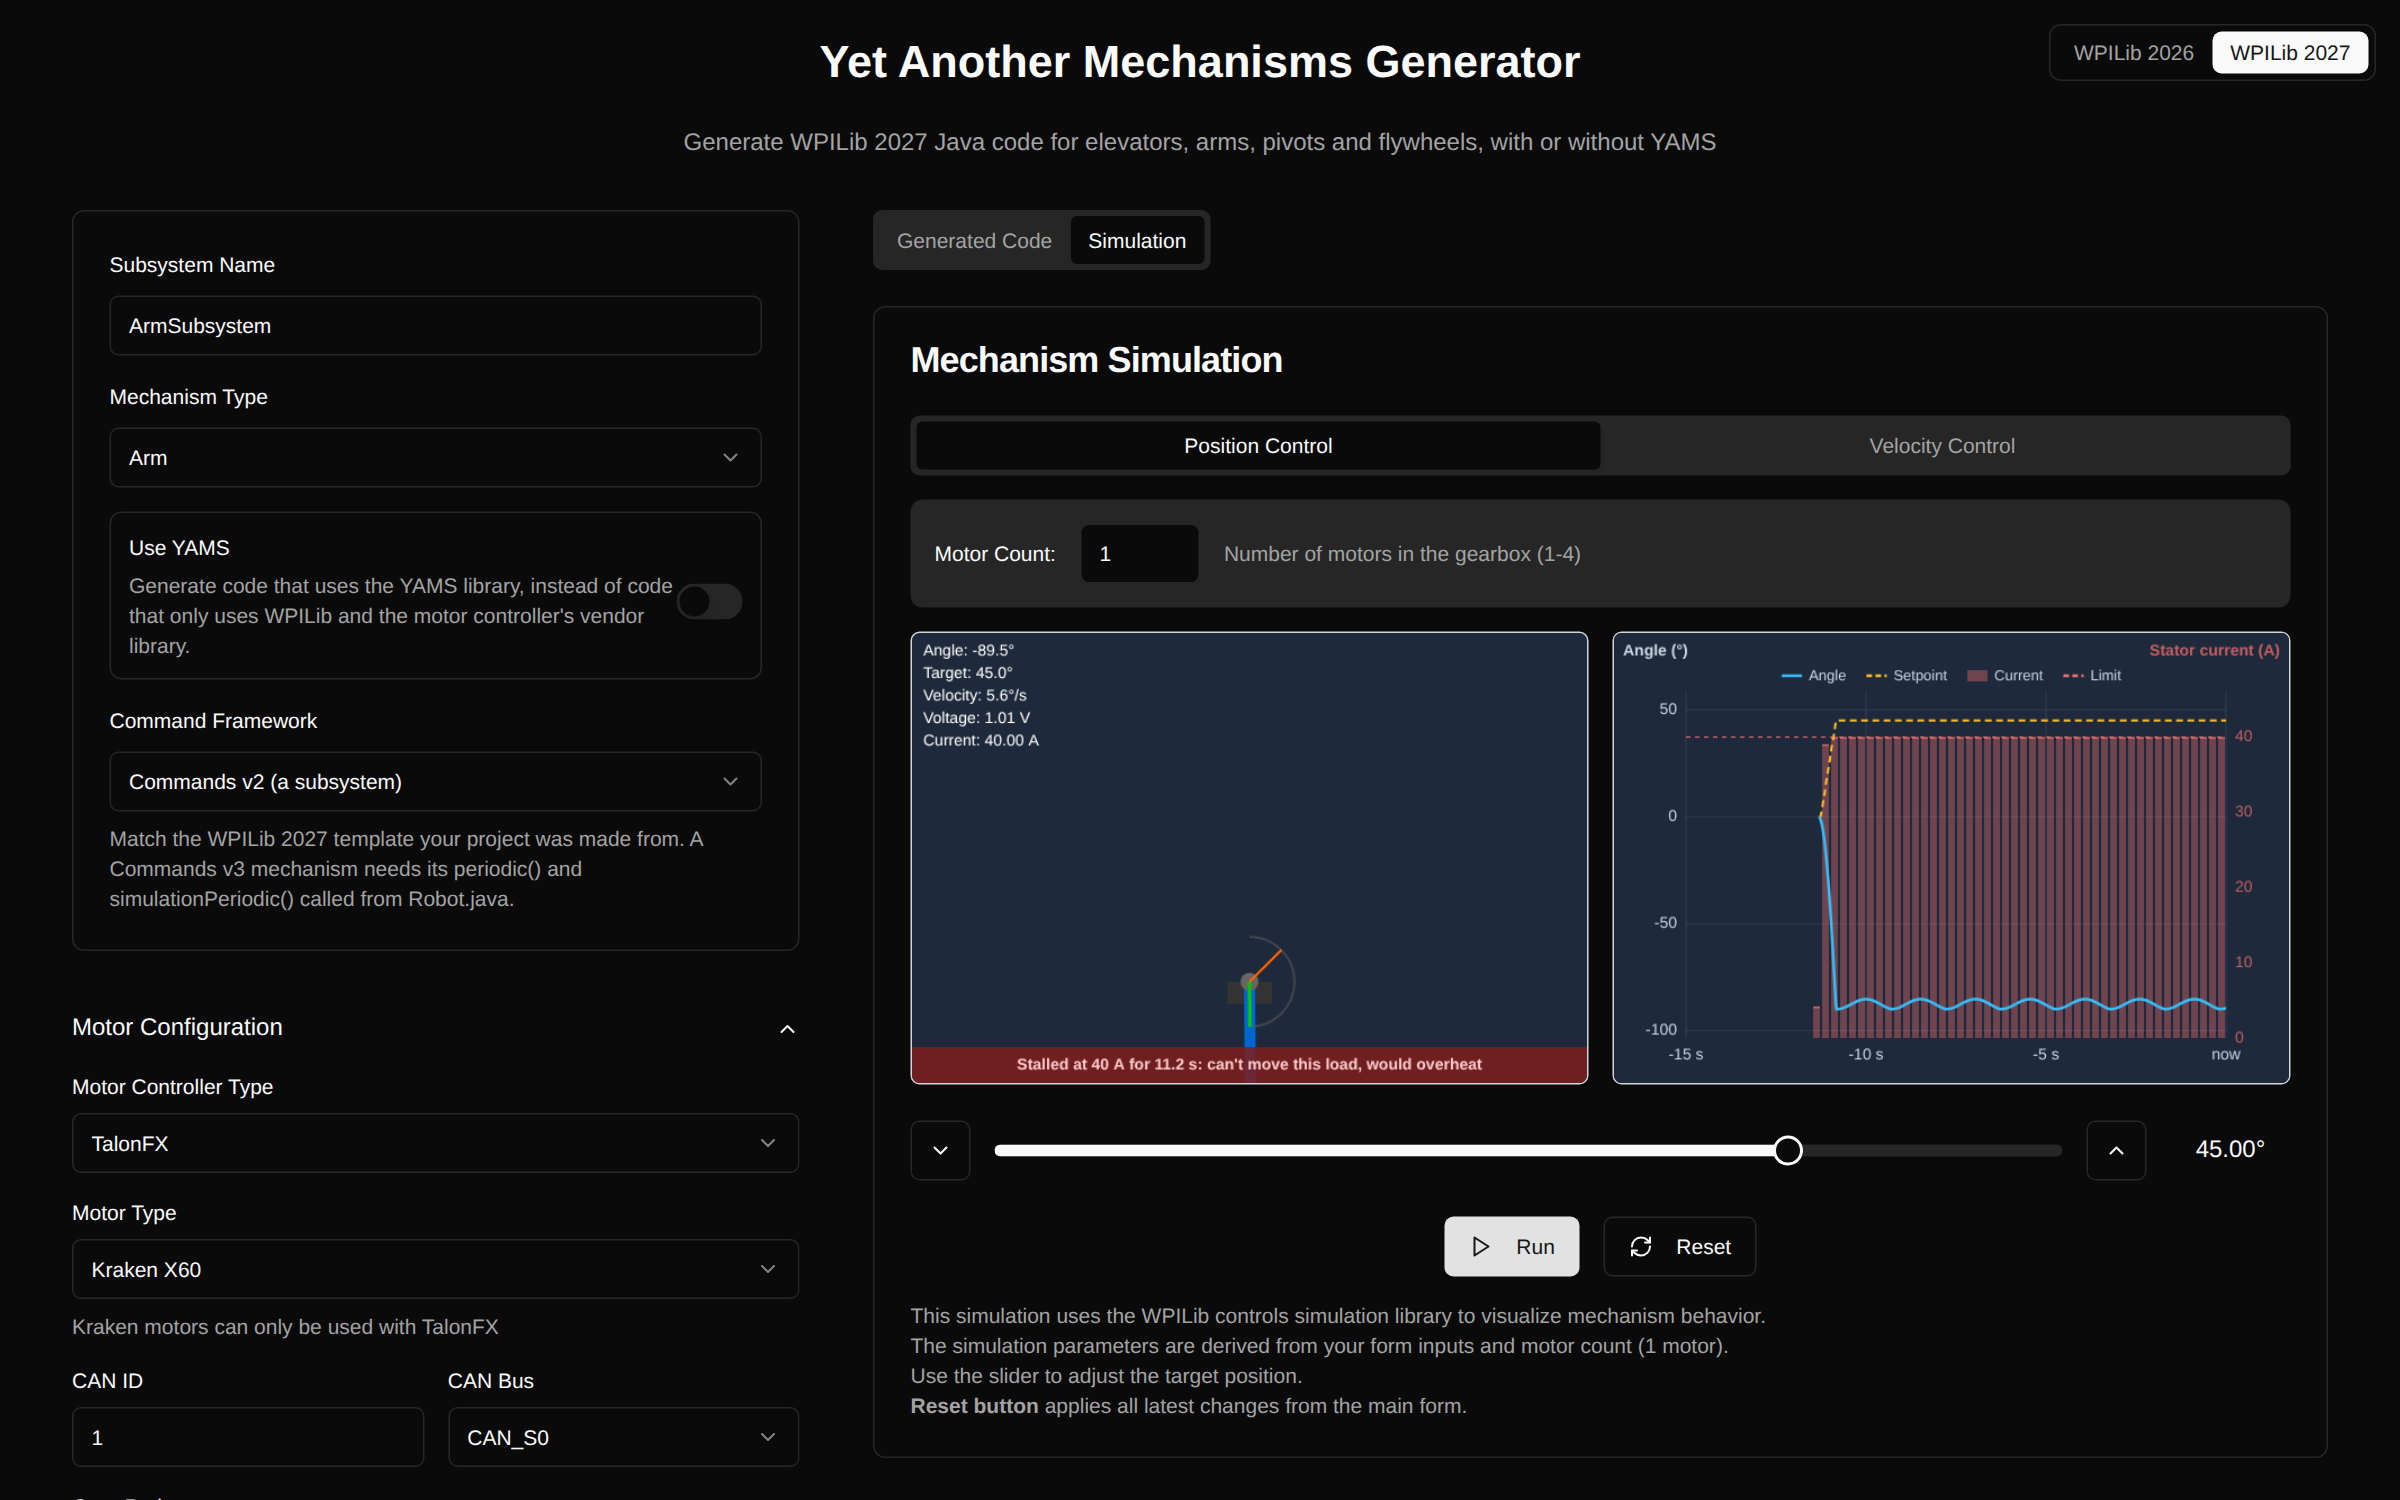
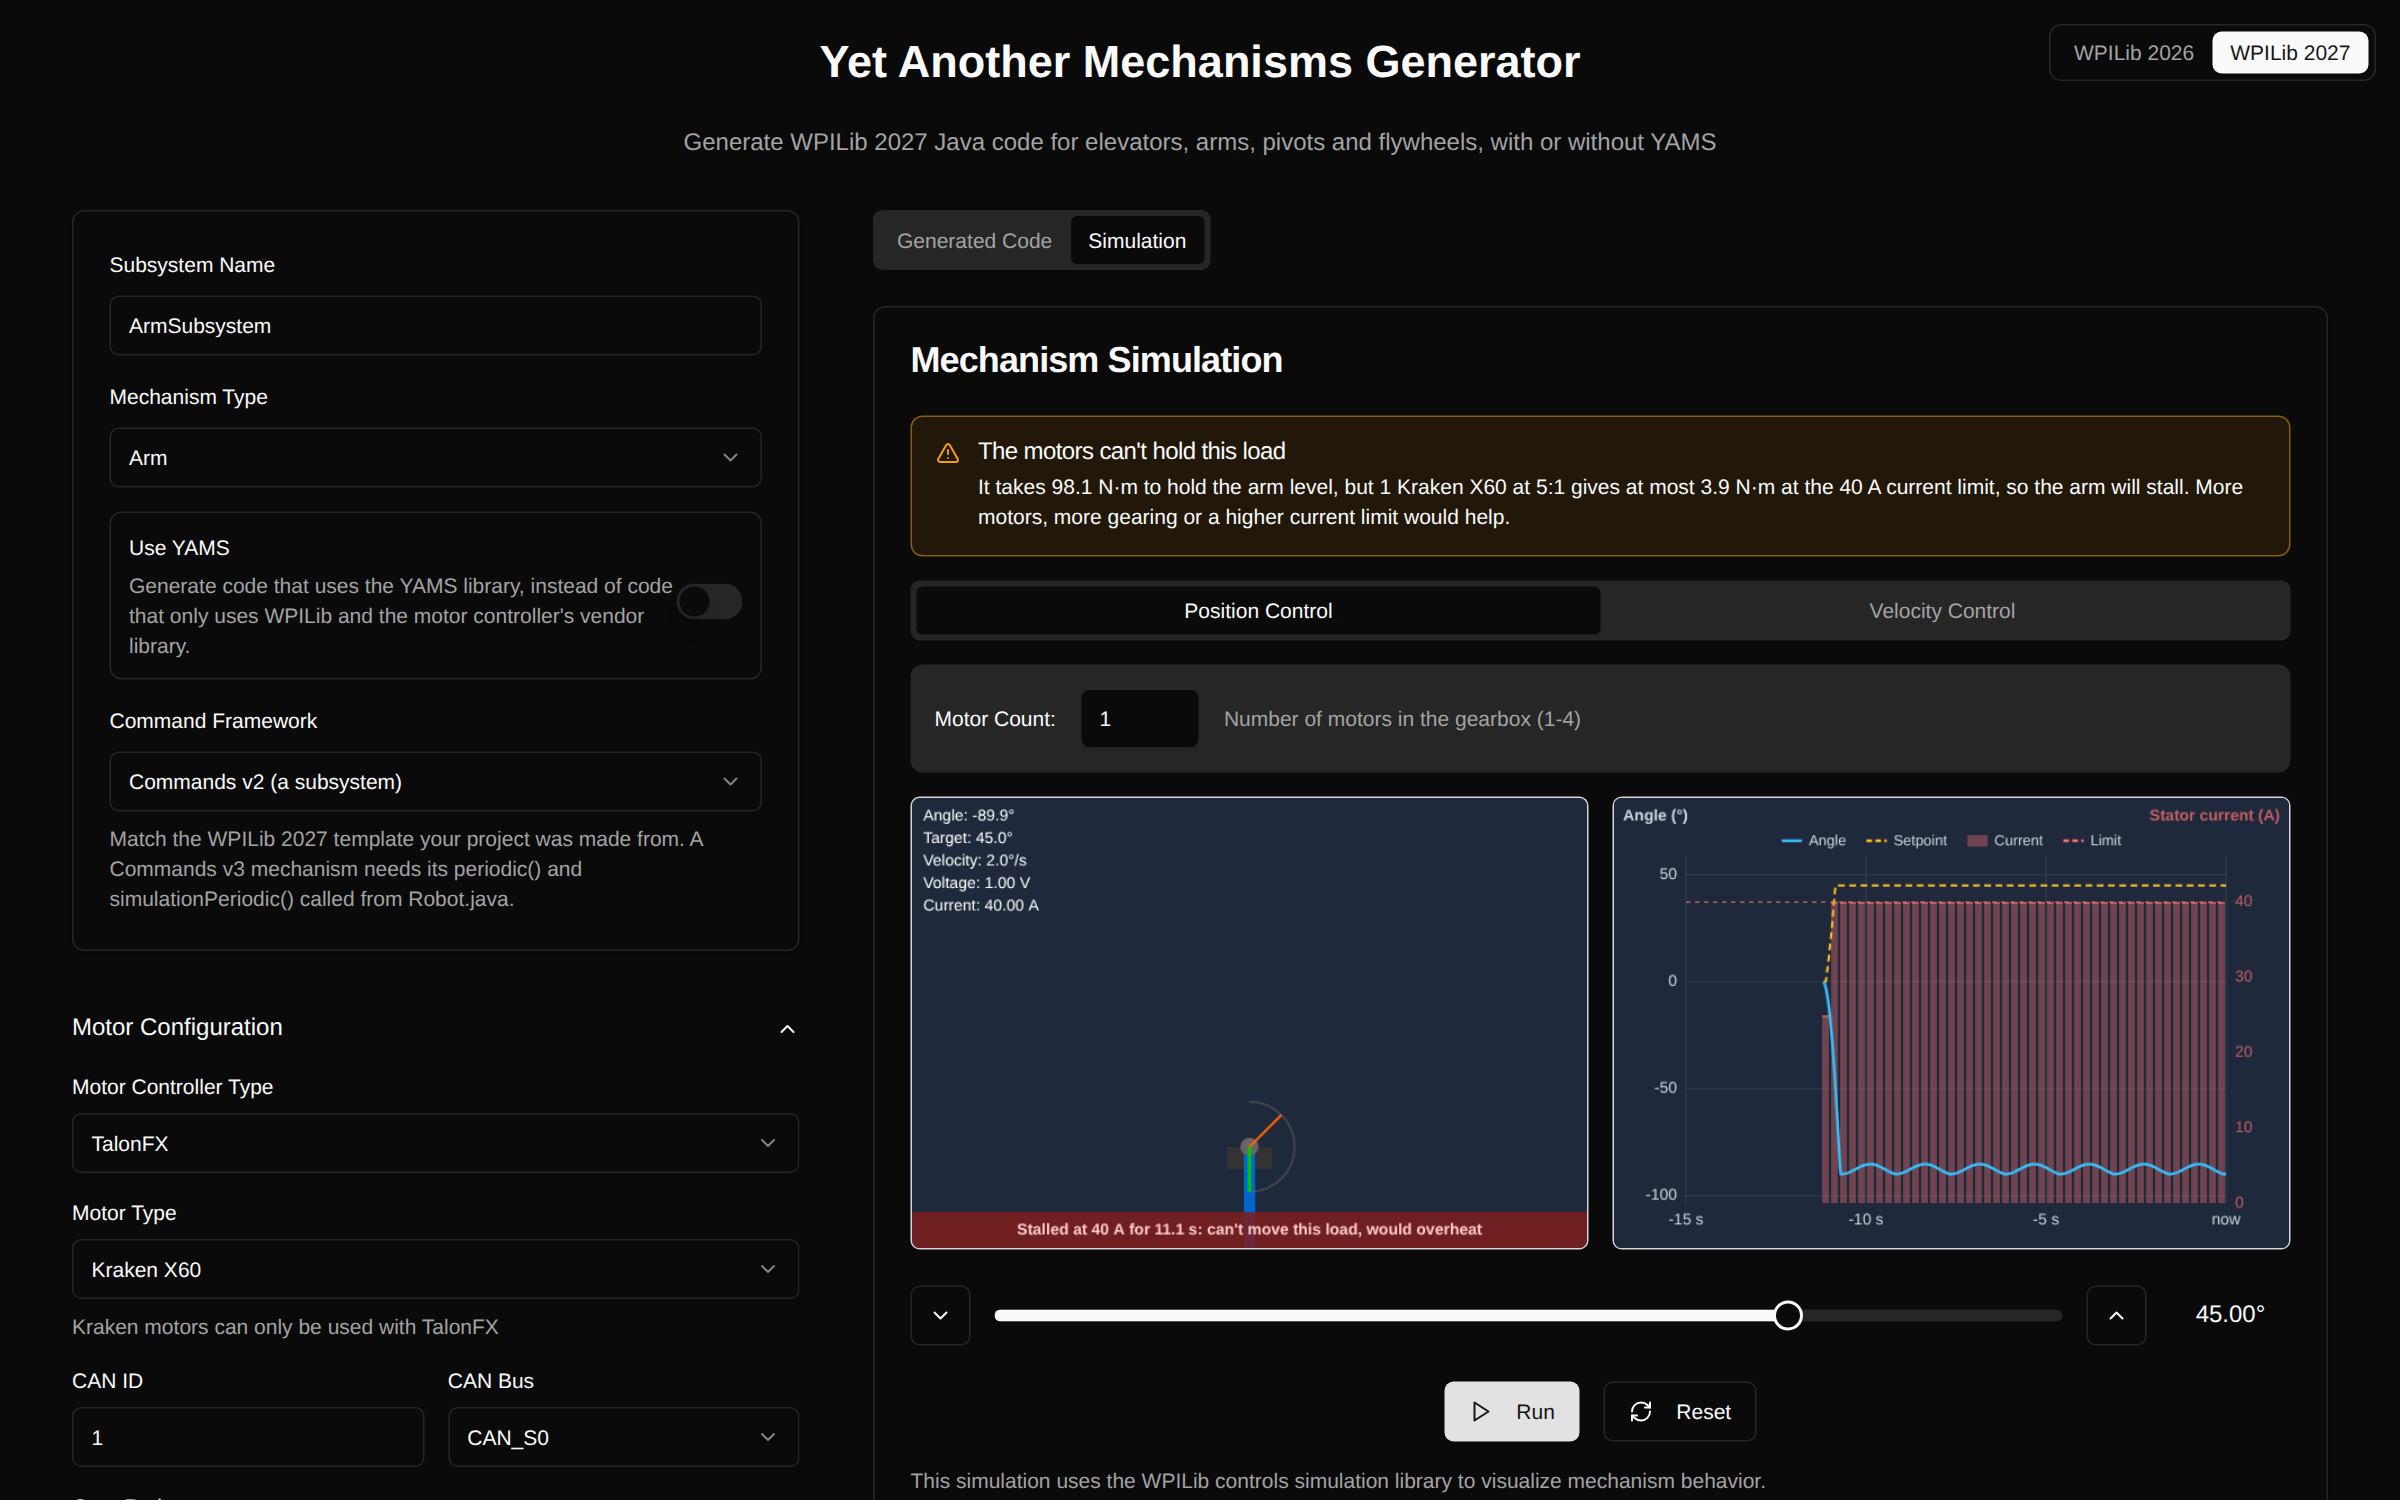
Show YAMG's warning that the motors can't hold the load in the YAMG 2027 post

Changed region(s): [[0.375, 0.276, 0.9688, 1.0]]

diff --git a/src/content/blog/yamg-2027.md b/src/content/blog/yamg-2027.md
@@ -208,9 +208,11 @@ Next to the mechanism, a graph shows the last 15 seconds: the angle (or height, 
 
 ![YAMG simulating an arm following its motion profile, next to a graph of its angle, setpoint and stator current over the last 15 seconds](../../assets/blog/yamg-2027/09-profile-and-chart.png)
 
-If the motor can't move the load, the simulation won't pretend it can. Here's the same Kraken X60 at 5:1 on a 1 m, 20 kg arm. It sags onto its lower hard stop while holding its 40 A limit, and after 2 seconds the simulation warns that the motor is stalled and would overheat:
+If the motor can't move the load, the simulation won't pretend it can. Here's the same Kraken X60 at 5:1 on a 1 m, 20 kg arm. It sags onto its lower hard stop while holding its 40 A limit, and after 2 seconds the simulation warns that the motor is stalled and would overheat.
 
-![YAMG warning that an arm too heavy for its motor is stalled at its 40 A current limit](../../assets/blog/yamg-2027/10-stalled.png)
+You don't have to run it to find out, either. A warning at the top of the simulation compares the torque it takes to hold the load where gravity pulls hardest with the most the motors can give at their current limit: here, 98.1 N·m against 3.9 N·m. It updates as you change the motor count, the gearing or the current limit, and the simulation still runs, so you can watch it stall:
+
+![YAMG warning that one Kraken X60 at 5:1 can't hold a 20 kg arm level, above the simulation of the arm stalled at its 40 A current limit](../../assets/blog/yamg-2027/10-stalled.png)
 
 ## Works on your phone
 
